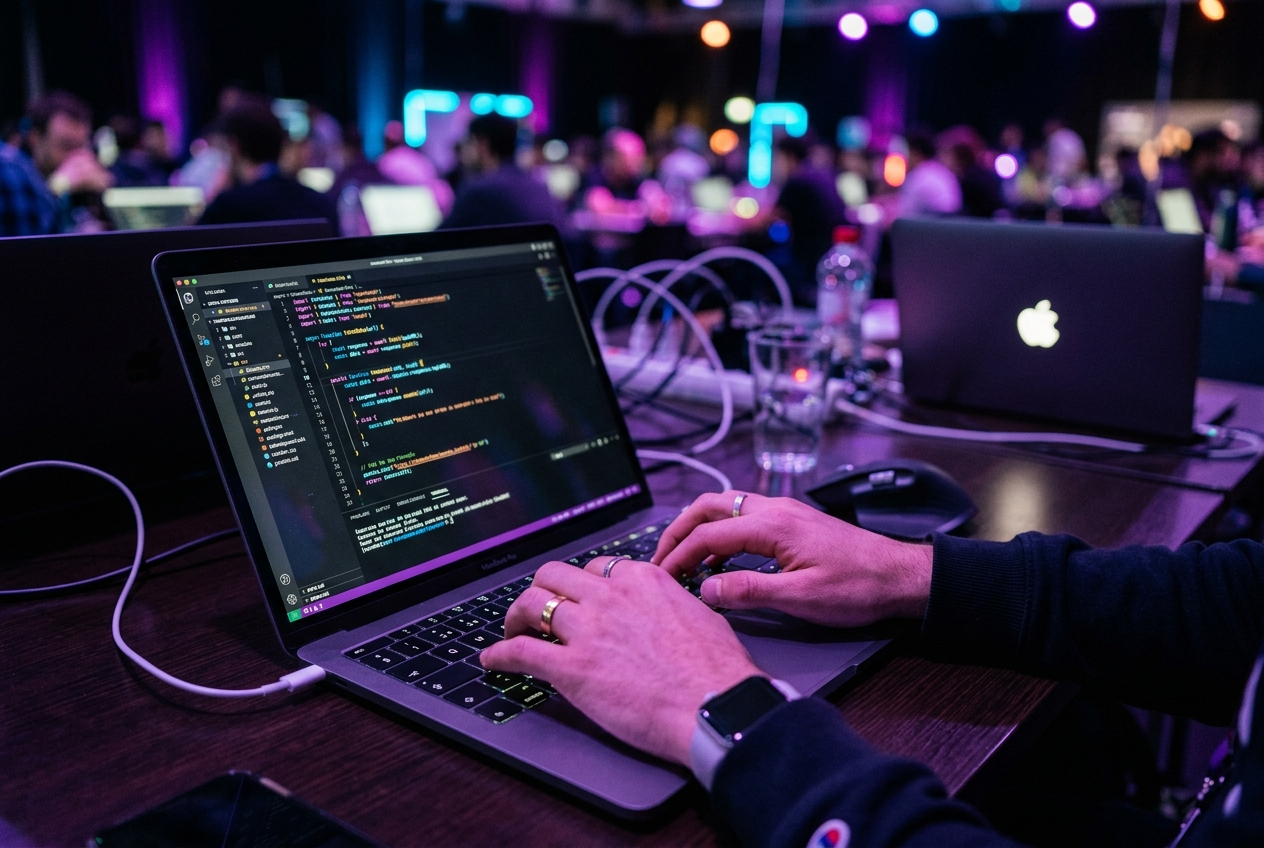
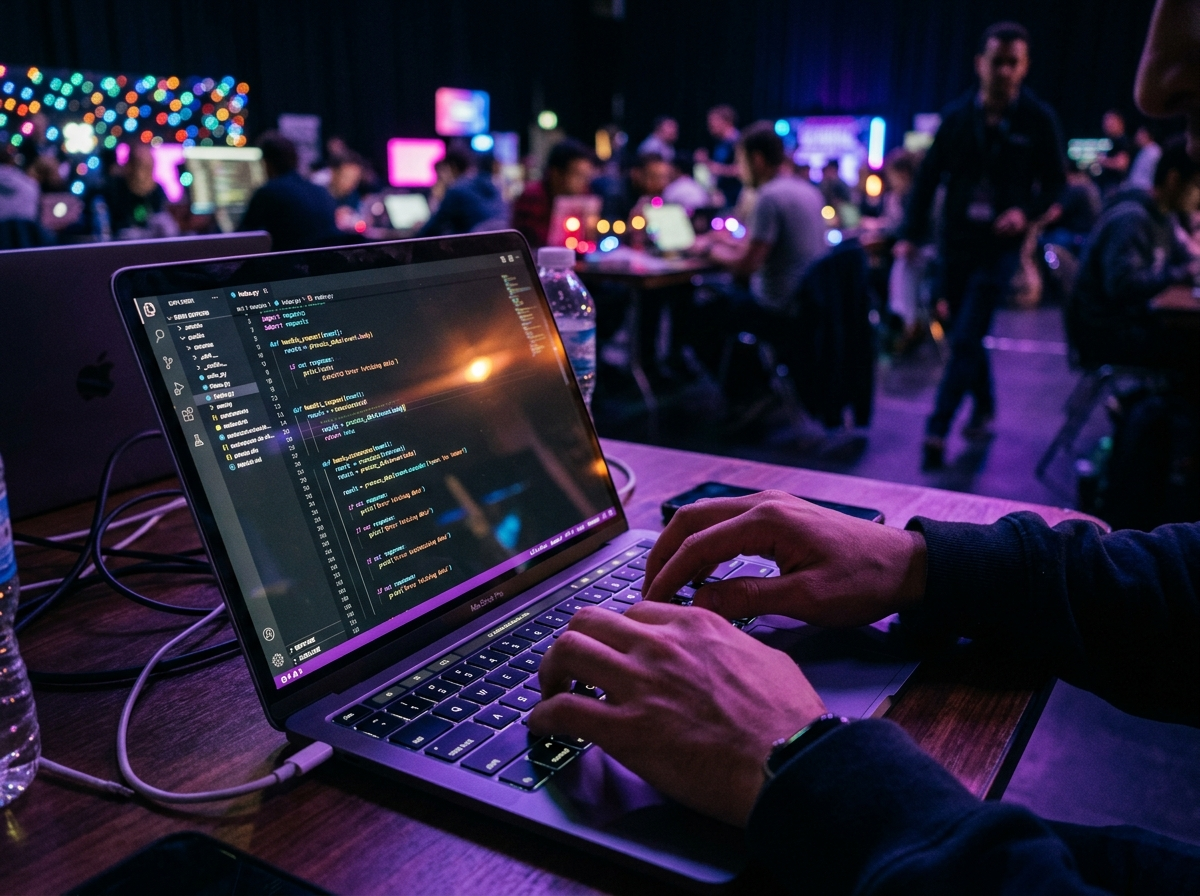
feat(odyssey): refine The Odyssey section with purple accent eyebrow, dark ambient theme, and One challenge statement

diff --git a/frontend/src/components/Welcome/Welcome.jsx b/frontend/src/components/Welcome/Welcome.jsx
@@ -14,7 +14,7 @@ const Welcome = () => {
         const tl = gsap.timeline({
             scrollTrigger: {
                 trigger: ".welcome-section",
-                start: "top 70%",
+                start: "top 75%",
                 end: "bottom 80%",
                 scrub: 1,
             },
@@ -44,61 +44,71 @@ const Welcome = () => {
     });
 
     return (
-        <div className="welcome-section w-full min-h-[110vh] text-[#2A2725] md:px-10 px-6 pt-10 pb-20">
-            {/* Eyebrow Label */}
-            <div className="mb-4 md:mb-6">
-                <p className="text-xs md:text-sm font-semibold tracking-[0.25em] text-[#b1a696] uppercase">
-                    THE ODYSSEY
-                </p>
-            </div>
+        <section className="welcome-section w-full min-h-screen text-[#f4efe7] px-6 sm:px-10 md:px-14 lg:px-20 pt-20 md:pt-28 pb-24 relative overflow-hidden bg-[#0c0915]">
+            {/* Subtle Ambient Background Glows */}
+            <div className="absolute top-1/4 -left-40 w-96 h-96 bg-purple-900/15 rounded-full blur-3xl pointer-events-none" />
+            <div className="absolute bottom-10 -right-40 w-96 h-96 bg-indigo-900/15 rounded-full blur-3xl pointer-events-none" />
 
-            {/* Editorial Statement with Interactive Scroll Reveal */}
-            <div className="flex flex-col gap-2 tracking-[-4] leading-2">
-                <div className="w-full md:w-[92%] lg:w-[86%] md:text-[60px] lg:text-[64px] text-[32px] welcome-line">
-                    <div className="w-full welcome-text flex flex-col justify-center items-start">
-                        {welcomeLines.map((text, index) => (
-                            <span key={index} className="relative block text-darkBrown md:tracking-[-0.010em] tracking-[0.015em]">
-                                {text}
-                                <span className="clip-text-welcome md:tracking-[-0.010em] tracking-[0.015em]">{text}</span>
-                            </span>
-                        ))}
-                    </div>
-                </div>
-            </div>
-
-            {/* Second Part: Two Organic Visuals + Statement */}
-            <div className="flex md:flex-row flex-col justify-between items-center md:p-4 md:mt-24 mt-14 gap-8">
-                {/* Organic Hackathon Visuals */}
-                <div className="flex flex-row justify-center items-center gap-3 welcome-image-card">
-                    <div className="overflow-hidden md:rounded-[8rem] rounded-[9rem] md:w-60 w-44 aspect-[4/3] shadow-lg border border-white/5">
-                        <img
-                            src={w1}
-                            alt="Students collaborating at Hack Odyssey"
-                            className="w-full h-full object-cover hover:scale-105 transition-transform duration-700"
-                        />
-                    </div>
-                    <div className="overflow-hidden md:rounded-[8rem] rounded-[9rem] md:w-60 w-44 aspect-[4/3] shadow-lg border border-white/5">
-                        <img
-                            src={w2}
-                            alt="Hackathon coding environment"
-                            className="w-full h-full object-cover hover:scale-105 transition-transform duration-700"
-                        />
-                    </div>
-                </div>
-
-                {/* Right Statement Block */}
-                <div className="md:w-1/2 w-full md:mt-0 mt-8 welcome-statement flex flex-col justify-center">
-                    <p className="md:text-[2rem] text-[1.35rem] text-[#b1a696] md:leading-[1.25] md:pr-16 font-normal leading-[30px] tracking-[-0.2px]">
-                        <span className="text-[#f4efe7] font-medium">One room.</span><br />
-                        <span className="text-[#f4efe7] font-medium">Hundreds of ideas.</span><br />
-                        <span className="text-[#b1a696]">Twenty-four hours to build them.</span>
+            <div className="max-w-7xl mx-auto relative z-10">
+                {/* Eyebrow with Purple Accent Line */}
+                <div className="flex items-center gap-3 mb-6 md:mb-8">
+                    <span className="w-8 md:w-10 h-[2px] bg-[#a855f7] inline-block rounded-full"></span>
+                    <p className="text-xs md:text-sm font-semibold tracking-[0.25em] text-[#a79bbd] uppercase">
+                        THE ODYSSEY
                     </p>
-                    <span className="text-xs md:text-sm tracking-[0.22em] font-semibold text-[#8e8579] uppercase mt-6 block">
-                        KARE &middot; ACM STUDENT CHAPTER
-                    </span>
+                </div>
+
+                {/* Editorial Statement with Progressive Scroll Reveal */}
+                <div className="flex flex-col gap-2 mb-16 md:mb-24">
+                    <div className="w-full md:w-[94%] lg:w-[88%] text-[28px] sm:text-[36px] md:text-[54px] lg:text-[62px] leading-[1.12] md:leading-[1.08] font-normal tracking-[-0.015em]">
+                        <div className="w-full welcome-text flex flex-col justify-center items-start">
+                            {welcomeLines.map((text, index) => (
+                                <span key={index} className="relative block text-darkBrown">
+                                    {text}
+                                    <span className="clip-text-welcome">{text}</span>
+                                </span>
+                            ))}
+                        </div>
+                    </div>
+                </div>
+
+                {/* Second Part: Two Organic Visuals + Refined Statement */}
+                <div className="flex md:flex-row flex-col justify-between items-start md:items-center gap-10 md:gap-14 pt-4">
+                    {/* Left: Organic Hackathon Visuals */}
+                    <div className="flex flex-row justify-start items-center gap-3 sm:gap-4 welcome-image-card">
+                        <div className="overflow-hidden rounded-[2.5rem] sm:rounded-[3.5rem] md:rounded-[4rem] w-40 sm:w-52 md:w-60 lg:w-68 aspect-[15/11] border border-purple-500/25 shadow-[0_0_25px_rgba(168,85,247,0.15)] group">
+                            <img
+                                src={w1}
+                                alt="Hackathon team collaborating"
+                                className="w-full h-full object-cover group-hover:scale-105 transition-transform duration-700"
+                            />
+                        </div>
+                        <div className="overflow-hidden rounded-[2.5rem] sm:rounded-[3.5rem] md:rounded-[4rem] w-40 sm:w-52 md:w-60 lg:w-68 aspect-[15/11] border border-purple-500/25 shadow-[0_0_25px_rgba(168,85,247,0.15)] group">
+                            <img
+                                src={w2}
+                                alt="Developer coding at hackathon"
+                                className="w-full h-full object-cover group-hover:scale-105 transition-transform duration-700"
+                            />
+                        </div>
+                    </div>
+
+                    {/* Right: Refined Statement Block Matching Reference */}
+                    <div className="md:w-1/2 w-full welcome-statement flex flex-col justify-center">
+                        <p className="text-xl sm:text-2xl md:text-[2rem] lg:text-[2.2rem] text-[#d1ccd8] leading-[1.28] md:leading-[1.24] font-normal tracking-[-0.2px]">
+                            <span>One challenge.</span><br />
+                            <span>One team.</span><br />
+                            <span><strong className="font-bold text-white">One</strong> idea at a time.</span>
+                        </p>
+                        <div className="flex items-center gap-2 mt-6 md:mt-8">
+                            <span className="w-4 h-[1.5px] bg-[#a855f7] inline-block"></span>
+                            <span className="text-[10px] sm:text-xs md:text-[13px] tracking-[0.22em] font-semibold text-[#8b82a0] uppercase">
+                                KARE &middot; ACM STUDENT CHAPTER
+                            </span>
+                        </div>
+                    </div>
                 </div>
             </div>
-        </div>
+        </section>
     );
 };
 

diff --git a/frontend/src/index.css b/frontend/src/index.css
@@ -134,11 +134,11 @@ body {
 /* --------------- Welcome Section Styles -------------- */
 
 .text-darkBrown {
-	color: #2A2725;
+	color: #2b243b;
 	position: relative;
 	display: inline-block;
 	overflow: hidden;
-	line-height: 1.05;
+	line-height: 1.08;
 }
 
 .clip-text-welcome {
@@ -146,7 +146,7 @@ body {
 	position: absolute;
 	top: 0;
 	left: 0;
-	color: #f4efe7;
+	color: #ffffff;
 	clip-path: inset(0 0 100% 0);
 	white-space: nowrap;
 	transition: none;

diff --git a/frontend/src/constants/welcome.js b/frontend/src/constants/welcome.js
@@ -1,8 +1,8 @@
 export const welcomeLinesLG = [
     "A 24-hour journey where students",
     "turn ideas into working solutions,",
-    "collaborate beyond boundaries, and",
-    "build what comes next.",
+    "collaborate beyond boundaries,",
+    "and build what comes next.",
 ];
 export const welcomeLinesSM = [
     "A 24-hour journey",
